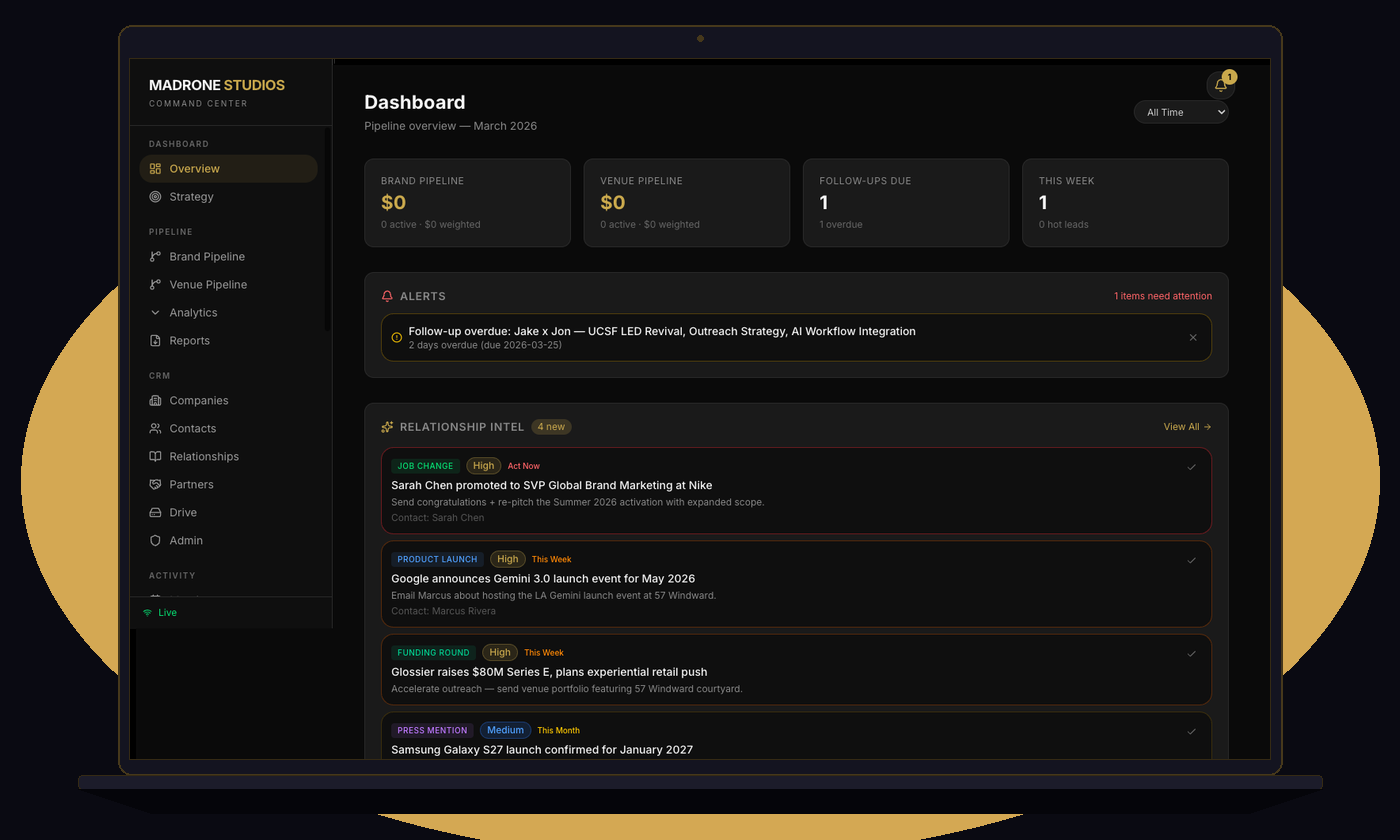
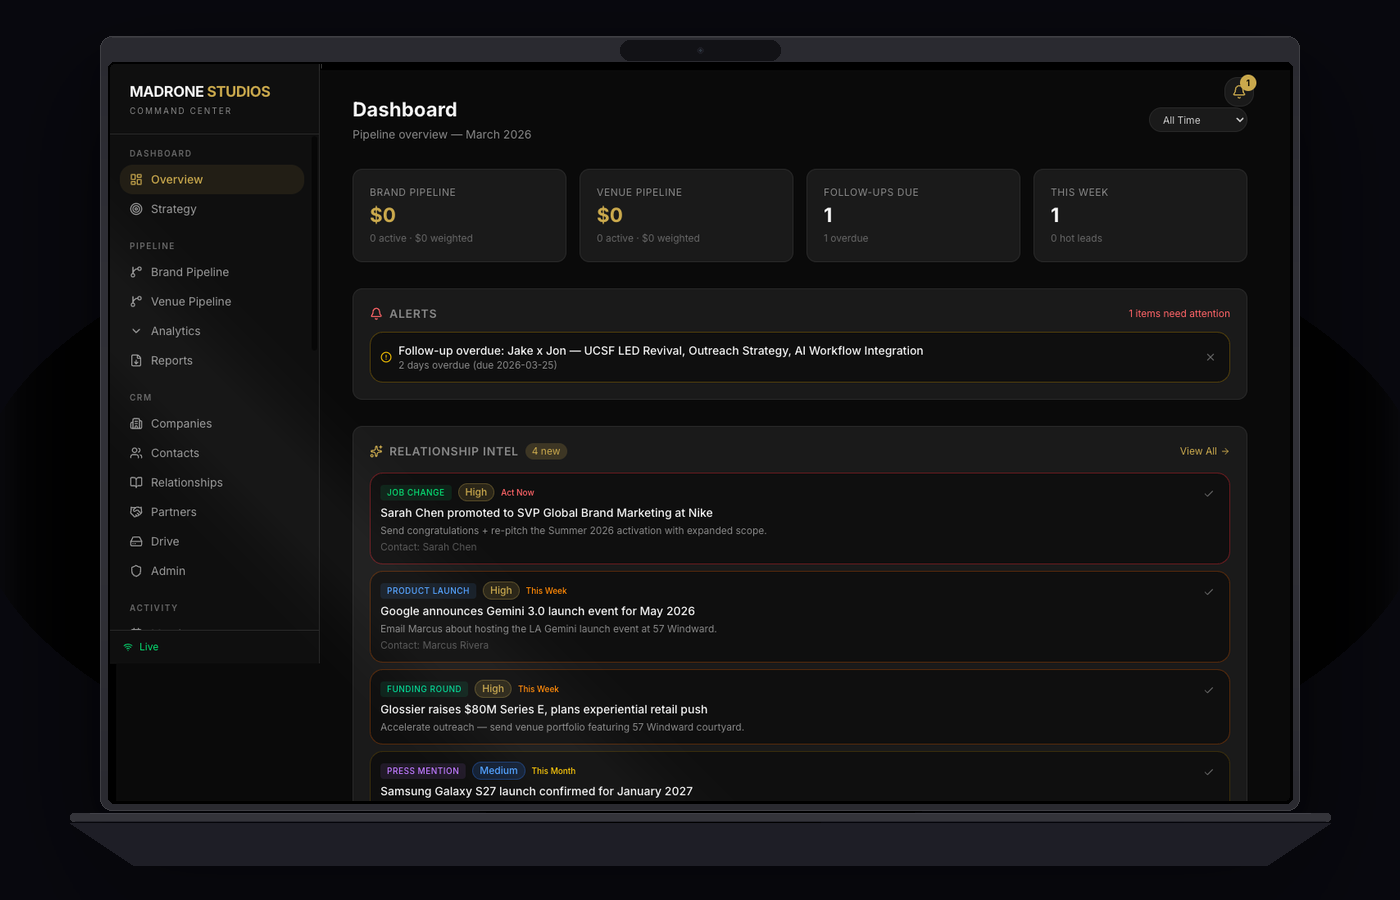
Upgrade showcase to photorealistic device frames with proper MacBook bezels
Replaces amateur PIL-drawn rectangles with realistic MacBook Pro frames featuring
metallic gradients, layered drop shadows, glass reflections, camera notch, and
proper proportions. Adds laptop+iPhone dual device layout for contacts and
multi-screen overview. Drops sparse Reports page in favor of multi-device shot.

diff --git a/index.html b/index.html
@@ -1459,22 +1459,20 @@
     .showcase-grid {
       display: grid;
       grid-template-columns: 1fr;
-      gap: 48px;
+      gap: 40px;
       margin-top: 16px;
     }
 
     .showcase-item {
       position: relative;
-      border-radius: 16px;
+      border-radius: 12px;
       overflow: hidden;
-      background: linear-gradient(135deg, rgba(242, 87, 73, 0.03), rgba(255,255,255,0.02));
-      border: 1px solid rgba(255,255,255,0.06);
-      transition: transform 0.3s ease, box-shadow 0.3s ease;
+      transition: transform 0.4s cubic-bezier(0.25, 0.46, 0.45, 0.94), box-shadow 0.4s ease;
     }
 
     .showcase-item:hover {
-      transform: translateY(-4px);
-      box-shadow: 0 20px 60px rgba(0,0,0,0.3);
+      transform: translateY(-6px) scale(1.005);
+      box-shadow: 0 30px 80px rgba(0,0,0,0.4);
     }
 
     .showcase-item img {
@@ -1484,35 +1482,42 @@
     }
 
     .showcase-caption {
-      padding: 20px 24px;
+      padding: 18px 24px;
       display: flex;
       justify-content: space-between;
       align-items: center;
-      background: rgba(0,0,0,0.2);
+      background: linear-gradient(180deg, rgba(8,8,14,0.95), rgba(8,8,14,1));
     }
 
     .showcase-caption h3 {
-      font-size: 1.1rem;
+      font-size: 1.05rem;
       font-weight: 600;
       margin-bottom: 0;
-      color: #fff;
+      color: rgba(255,255,255,0.9);
     }
 
     .showcase-caption .industry-tag {
-      font-size: 0.75rem;
+      font-size: 0.7rem;
       font-weight: 600;
       text-transform: uppercase;
       letter-spacing: 1.5px;
-      padding: 6px 14px;
+      padding: 5px 12px;
       border-radius: 20px;
-      background: rgba(242, 87, 73, 0.15);
+      background: rgba(242, 87, 73, 0.12);
       color: #F25749;
+      white-space: nowrap;
     }
 
     .showcase-row {
       display: grid;
       grid-template-columns: 1fr 1fr;
-      gap: 24px;
+      gap: 32px;
+    }
+
+    @media (max-width: 768px) {
+      .showcase-row {
+        grid-template-columns: 1fr;
+      }
     }
 
     @media (max-width: 768px) {
@@ -1693,7 +1698,7 @@
       </div>
       <div class="showcase-grid">
         <div class="showcase-item fade-in">
-          <img src="/images/showcase_dashboard.png" alt="Madrone Studios Command Center — Pipeline Dashboard with Alerts and Relationship Intel" loading="lazy">
+          <img src="/images/showcase_dashboard.png" alt="Madrone Studios Command Center — Pipeline Dashboard with Real-time Alerts and Relationship Intel" loading="lazy">
           <div class="showcase-caption">
             <h3>Pipeline Dashboard — Alerts & Relationship Intel</h3>
             <span class="industry-tag">Experiential Events</span>
@@ -1701,17 +1706,17 @@
         </div>
         <div class="showcase-row">
           <div class="showcase-item fade-in">
-            <img src="/images/showcase_contacts.png" alt="CRM Contact Management with Lead Scoring and Filters" loading="lazy">
+            <img src="/images/showcase_contacts.png" alt="CRM Contact Management with Lead Scoring, Filters, and Mobile View" loading="lazy">
             <div class="showcase-caption">
               <h3>CRM — Contact Intelligence & Lead Scoring</h3>
               <span class="industry-tag">CRM</span>
             </div>
           </div>
           <div class="showcase-item fade-in">
-            <img src="/images/showcase_reports.png" alt="Pipeline Reports with Executive Summary and Meeting Tracking" loading="lazy">
+            <img src="/images/showcase_multi.png" alt="Multi-screen Command Center Overview showing Dashboard, CRM and Strategy views" loading="lazy">
             <div class="showcase-caption">
-              <h3>Reports — Pipeline & Meeting Analytics</h3>
-              <span class="industry-tag">Analytics</span>
+              <h3>Multi-Screen Command Center Overview</h3>
+              <span class="industry-tag">Full Platform</span>
             </div>
           </div>
         </div>
